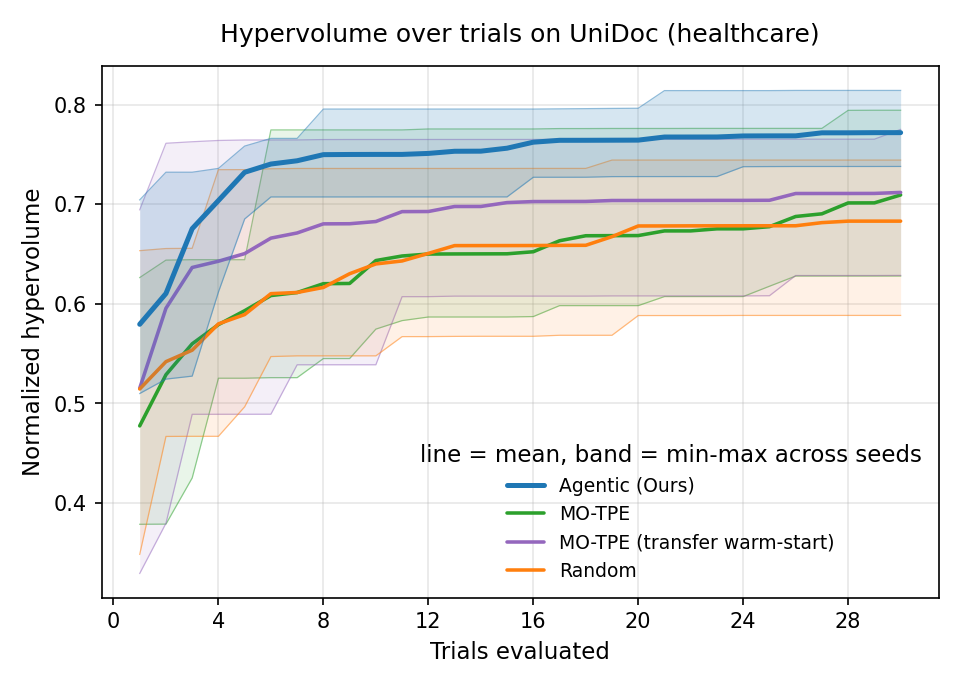
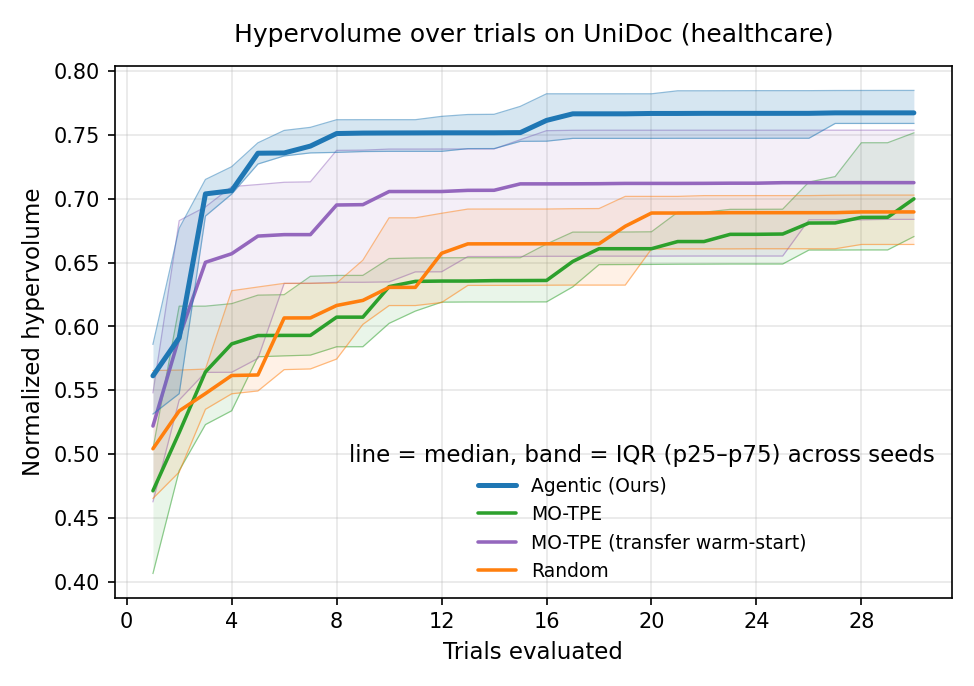
Update experiment 2 figures

diff --git a/agentic_autorag_bench/plots.py b/agentic_autorag_bench/plots.py
@@ -1438,37 +1438,58 @@ def _attainment_stats(seed_points: list[list[_TrialPoint]], grid: np.ndarray) ->
     return curves.min(axis=0), np.median(curves, axis=0), curves.max(axis=0)
 
 
+def _attainment_quantiles(
+    seed_points: list[list[_TrialPoint]], grid: np.ndarray
+) -> tuple[np.ndarray, np.ndarray, np.ndarray]:
+    """``(p25, p50, p75)`` of the seeds' empirical attainment curves on ``grid``.
+
+    The interquartile band (p25-p75) is the fair seed-spread envelope: unlike the
+    min-max range it is stable as the seed count grows (it converges to the true
+    quartiles instead of widening with n) and it is not driven by a single lucky or
+    unlucky seed. ``p50`` is the median attainment (the same central line as
+    ``_attainment_stats``). Curves are 0-padded below a seed's cheapest trial, so in
+    the cheap region where fewer than a quarter of seeds have a trial ``p25`` is 0;
+    callers gate the band on ``p25 > 0`` so it stays a proper interval rather than
+    sagging onto the axis."""
+    curves = np.vstack([_attainment_curve(pts, grid) for pts in seed_points])
+    p25, p50, p75 = np.percentile(curves, [25, 50, 75], axis=0)
+    return p25, p50, p75
+
+
 def _plot_attainment(
     ax, method_seed_points: dict[str, list[list[_TrialPoint]]], grid: np.ndarray, *, central: str
 ) -> None:
-    """Draw each method's attainment on ``ax``: a central line + a min-max band.
+    """Draw each method's attainment on ``ax``: a central line + an IQR seed band.
 
     ``central`` picks the line: ``"max"`` is the best-across-seeds frontier (every
     frontier point is on the line), ``"median"`` is the typical seed. The line is
     drawn over its full positive extent, so it reaches the cheapest costs a seed
-    explored. The min-max band is drawn ONLY where every seed has coverage (its
-    worst seed has a trial that cheap), i.e. where a seed-spread estimate is
-    honest; in the partial-coverage cheap region the line stands alone rather than
-    a band collapsing to 0. Our own method is emphasised."""
+    explored. The band is the interquartile range (p25-p75) across seeds — a fair,
+    n-stable spread (unlike min-max, whose width only grows with more seeds and is
+    set by the single worst/best seed). It is drawn where ``p25 > 0`` (at least a
+    quarter of seeds have a trial that cheap), so it stays a proper interval; in the
+    thin cheapest tail where fewer seeds explored, the line stands alone rather than
+    a band sagging onto the axis. Our own method is emphasised."""
     for method in _order_methods(method_seed_points):
-        lo, med, hi = _attainment_stats(method_seed_points[method], grid)
-        line = hi if central == "max" else med
+        p25, p50, p75 = _attainment_quantiles(method_seed_points[method], grid)
+        # best-across-seeds frontier for the "max" figure, else the median (typical) seed
+        line = _attainment_stats(method_seed_points[method], grid)[2] if central == "max" else p50
         color, emph = _color_for(method), _is_our_method(method)
-        band = lo > 0  # every seed has a trial this cheap -> spread is meaningful
-        ax.fill_between(grid, lo * 100, hi * 100, where=band, color=color,
+        band = p25 > 0  # >=1/4 of seeds have a trial this cheap -> IQR is a proper interval
+        ax.fill_between(grid, p25 * 100, p75 * 100, where=band, color=color,
                         alpha=0.18 if emph else 0.10, lw=0, zorder=4 if emph else 2)
         ax.plot(grid, np.where(line > 0, line * 100, np.nan), color=color, lw=2.4 if emph else 1.7,
                 solid_capstyle="round", zorder=6 if emph else 3, label=display_label(method))
 
 
 def make_pareto_attainment_figure(output_root: Path, out_path: Path, *, domain: str = "") -> None:
-    """Cost->accuracy frontier across seeds: best-across-seeds line + min-max band.
+    """Cost->accuracy frontier across seeds: best-across-seeds line + IQR band.
 
     The line is the empirical attainment frontier (best accuracy any seed reached at
     or below each cost), so every frontier point is shown, including cheap configs
-    only some seeds explored. The band is the seed min-max, drawn where all seeds
-    have coverage. Companion ``make_pareto_attainment_median_figure`` swaps the line
-    for the median (typical run). No-op when nothing is plottable."""
+    only some seeds explored. The band is the seed interquartile range (p25-p75) — a
+    fair, n-stable spread. Companion ``make_pareto_attainment_median_figure`` swaps
+    the line for the median (typical run). No-op when nothing is plottable."""
     method_seed_points = _load_method_seed_points(output_root)
     grid = _attainment_grid(method_seed_points)
     if grid is None:
@@ -1488,7 +1509,7 @@ def make_pareto_attainment_figure(output_root: Path, out_path: Path, *, domain: 
     title_domain = f" ({domain})" if domain else ""
     ax.set_title(f"Cost vs exam accuracy on UniDoc{title_domain} (frontier across seeds)")
     ax.legend(loc="lower right", frameon=False, fontsize=9,
-              title="line = best across seeds, band = min-max across seeds")
+              title="line = best across seeds, band = IQR (p25–p75) across seeds")
 
     out_path.parent.mkdir(parents=True, exist_ok=True)
     fig.savefig(out_path, dpi=150, bbox_inches="tight")
@@ -1497,9 +1518,9 @@ def make_pareto_attainment_figure(output_root: Path, out_path: Path, *, domain: 
 
 def _draw_median_attainment_panel(
     ax, method_seed_points, grid, *, domain: str,
-    legend_title: str | None = "line = median seed, band = min-max across seeds",
+    legend_title: str | None = "line = median seed, band = IQR (p25–p75) across seeds",
 ) -> None:
-    """Median-seed cost->accuracy attainment (line + min-max band) onto ``ax``.
+    """Median-seed cost->accuracy attainment (line + IQR seed band) onto ``ax``.
     Shared by the standalone median figure and the combined landscape figure so
     the two never drift. ``legend_title`` can be set to ``None`` to drop the
     line/band explainer when the figure caption already carries it."""
@@ -1553,7 +1574,8 @@ def make_pareto_attainment_median_figure(output_root: Path, out_path: Path, *, d
 def _pooled_frontier(seed_points: list[list[_TrialPoint]]) -> list[_TrialPoint]:
     """The Pareto frontier of a method's trials pooled across all seeds, sorted by
     cost ascending. This is the best cost-accuracy trade-off the method actually
-    reached anywhere, so it traces the top edge of that method's min-max band."""
+    reached anywhere, so it coincides with that method's best-across-seeds
+    attainment line (the ``central="max"`` line), which sits above the IQR band."""
     from agentic_autorag.optimizer import pareto as fpareto
 
     pooled = [p for pts in seed_points for p in pts]
@@ -1597,8 +1619,8 @@ def make_pareto_frontier_annotated_figure(
     """The seed-aggregated frontier view (``make_pareto_attainment_figure``) with our
     own frontier's concrete configurations called out.
 
-    Every method keeps its best-across-seeds frontier line + min-max band, so the
-    head-to-head is the same fair comparison. The pooled Pareto frontier of
+    Every method keeps its best-across-seeds frontier line + IQR (p25-p75) band, so
+    the head-to-head is the same fair comparison. The pooled Pareto frontier of
     ``hero_method`` lies exactly on that method's line, so a handful of its points
     are marked with numbered dots, each described in a side legend the way
     ``make_pareto_figure`` does for a single seed. This pairs "we dominate the
@@ -1628,7 +1650,7 @@ def make_pareto_frontier_annotated_figure(
     # Keep the method legend inside; the config legend goes outside on the right.
     method_legend = ax.legend(
         loc="lower right", frameon=False, fontsize=9,
-        title="line = best across seeds, band = min-max across seeds",
+        title="line = best across seeds, band = IQR (p25–p75) across seeds",
     )
     ax.add_artist(method_legend)
 
@@ -1667,20 +1689,22 @@ def _running_hypervolume(points: list[_TrialPoint], ref_point: tuple[float, floa
 
 
 def _draw_hv_convergence_panel(ax, method_seed_points, *, domain: str, cost_ref: float) -> None:
-    """Anytime normalized hypervolume vs. trials (mean + min-max band) onto ``ax``.
-    Shared by the standalone HV figure and the combined landscape figure."""
+    """Anytime normalized hypervolume vs. trials (median + IQR band) onto ``ax``.
+    Shared by the standalone HV figure and the combined landscape figure. The band
+    is the interquartile range (p25-p75) across seeds — a fair, n-stable spread
+    rather than the min-max range, which only widens with more seeds."""
     ref_point = (0.0, cost_ref)
     for method in _order_methods(method_seed_points):
         curves = _pad_edge([_running_hypervolume(pts, ref_point) / cost_ref for pts in method_seed_points[method]])
         x = np.arange(1, curves.shape[1] + 1)
         color, emph = _color_for(method), _is_our_method(method)
-        lo, hi = curves.min(axis=0), curves.max(axis=0)
+        lo, hi = np.percentile(curves, [25, 75], axis=0)
         ax.fill_between(x, lo, hi, color=color, alpha=0.18 if emph else 0.10, lw=0, zorder=4 if emph else 2)
         # Very thin same-colour edges so each band's extent stays readable where
         # the fills overlap (this figure has the densest band overlap of the set).
         for edge in (lo, hi):
             ax.plot(x, edge, color=color, lw=0.6, alpha=0.5, zorder=4 if emph else 2)
-        ax.plot(x, curves.mean(axis=0), color=color, lw=2.4 if emph else 1.7, solid_capstyle="round",
+        ax.plot(x, np.median(curves, axis=0), color=color, lw=2.4 if emph else 1.7, solid_capstyle="round",
                 zorder=6 if emph else 3, label=display_label(method))
 
     _integer_xticks(ax)
@@ -1689,11 +1713,11 @@ def _draw_hv_convergence_panel(ax, method_seed_points, *, domain: str, cost_ref:
     ax.grid(alpha=0.3)
     title_domain = f" ({domain})" if domain else ""
     ax.set_title(f"Hypervolume over trials on UniDoc{title_domain}")
-    ax.legend(loc="lower right", frameon=False, title="line = mean, band = min-max across seeds")
+    ax.legend(loc="lower right", frameon=False, title="line = median, band = IQR (p25–p75) across seeds")
 
 
 def make_pareto_hv_convergence_figure(output_root: Path, out_path: Path, *, domain: str = "", cost_ref: float) -> None:
-    """Anytime normalized hypervolume vs. trials: mean over seeds + min-max band.
+    """Anytime normalized hypervolume vs. trials: median over seeds + IQR band.
 
     Running best-so-far hypervolume against the shared, space-derived ``cost_ref``
     (the same reference used for ``hypervolume.json``, so this figure and the table
@@ -1755,6 +1779,70 @@ def make_pareto_median_hv_combined_figure(
         out_path.parent.mkdir(parents=True, exist_ok=True)
         fig.savefig(out_path, dpi=150, bbox_inches="tight")
         plt.close(fig)
+
+
+def make_pareto_hypervolume_box_figure(output_root: Path, out_path: Path, *, domain: str = "") -> None:
+    """Per-method distribution of the per-seed normalized hypervolume: box + seed strip.
+
+    Reads the ``hypervolume_per_seed`` fractions already written to
+    ``hypervolume.json`` (one dominated-hypervolume value per seed against the shared
+    space-derived reference) and shows, per method, the interquartile box + median
+    with whiskers and every seed as a jittered dot. This is the fair scalar summary
+    the frontier figures can't give: it collapses each seed's whole frontier to one
+    comparable number, so the seed spread and the method ranking read directly and it
+    supports a significance test. No-op when the file is missing or has no per-seed
+    values."""
+    hv_path = output_root / "hypervolume.json"
+    if not hv_path.exists():
+        logger.warning("No hypervolume.json under %s; skipping hypervolume box figure", output_root)
+        return
+    try:
+        hv_info = json.loads(hv_path.read_text(encoding="utf-8"))
+    except (OSError, json.JSONDecodeError):
+        logger.warning("Unreadable hypervolume.json at %s; skipping box figure", hv_path, exc_info=True)
+        return
+    methods_hv = hv_info.get("methods", {})
+    methods = [m for m in _order_methods(methods_hv) if methods_hv.get(m, {}).get("hypervolume_per_seed")]
+    if not methods:
+        logger.warning("hypervolume.json under %s has no per-seed values; skipping box figure", output_root)
+        return
+
+    apply_paper_style()
+    plt = _import_matplotlib()
+    fig, ax = plt.subplots(figsize=(7.2, 4.6))
+    rng = np.random.default_rng(0)  # deterministic jitter -> stable re-renders
+    positions = np.arange(1, len(methods) + 1)
+    per_seed = [list(methods_hv[m]["hypervolume_per_seed"]) for m in methods]
+
+    bp = ax.boxplot(per_seed, positions=positions, widths=0.55, showfliers=False,
+                    patch_artist=True, medianprops=dict(color="black", lw=1.6), zorder=2)
+    for patch, method in zip(bp["boxes"], methods, strict=True):
+        color = _color_for(method)
+        patch.set_facecolor(color)
+        patch.set_alpha(0.18)
+        patch.set_edgecolor(color)
+        patch.set_linewidth(1.4)
+    for i, method in enumerate(methods):  # whiskers + caps come two-per-box, in order
+        color = _color_for(method)
+        for artist in (bp["whiskers"][2 * i], bp["whiskers"][2 * i + 1], bp["caps"][2 * i], bp["caps"][2 * i + 1]):
+            artist.set_color(color)
+            artist.set_linewidth(1.2)
+    for method, pos, vals in zip(methods, positions, per_seed, strict=True):
+        color, emph = _color_for(method), _is_our_method(method)
+        jitter = (rng.random(len(vals)) - 0.5) * 0.28
+        ax.scatter(pos + jitter, vals, s=34 if emph else 22, color=color,
+                   edgecolor="white", linewidth=0.5, alpha=0.9, zorder=5 if emph else 4)
+
+    ax.set_xticks(positions)
+    ax.set_xticklabels([display_label(m) for m in methods])
+    ax.set_ylabel("Normalized hypervolume")
+    ax.grid(alpha=0.3, axis="y")
+    title_domain = f" ({domain})" if domain else ""
+    ax.set_title(f"Per-seed hypervolume on UniDoc{title_domain}")
+
+    out_path.parent.mkdir(parents=True, exist_ok=True)
+    fig.savefig(out_path, dpi=150, bbox_inches="tight")
+    plt.close(fig)
 
 
 def _read_seed_cost_embed(seed_dir: Path) -> tuple[float, float, float] | None:

diff --git a/tests/test_pareto.py b/tests/test_pareto.py
@@ -19,6 +19,7 @@ from agentic_autorag_bench.pareto import (
 )
 from agentic_autorag_bench.plots import (
     _attainment_curve,
+    _attainment_quantiles,
     _attainment_stats,
     _describe_config,
     _load_method_seed_points,
@@ -35,6 +36,7 @@ from agentic_autorag_bench.plots import (
     make_pareto_figure,
     make_pareto_frontier_annotated_figure,
     make_pareto_hv_convergence_figure,
+    make_pareto_hypervolume_box_figure,
     make_pareto_median_hv_combined_figure,
 )
 
@@ -399,6 +401,25 @@ def test_attainment_stats_frontier_shows_single_seed_cheap_point() -> None:
     assert hi[0] == 0.5 and lo[0] == 0.0  # frontier reaches the cheap point; floor does not
 
 
+def test_attainment_quantiles_monotone_and_zero_padded() -> None:
+    # The IQR band's quartiles: p25 <= p50 <= p75 everywhere, 0-padded below the
+    # cheapest trial (like the attainment curve), and a positive interval once every
+    # seed has coverage.
+    import numpy as np
+
+    seeds = [
+        [_point(1, 0.001, 0.5), _point(2, 0.004, 0.9)],
+        [_point(1, 0.002, 0.6), _point(2, 0.004, 0.8)],
+        [_point(1, 0.002, 0.7), _point(2, 0.004, 0.85)],
+        [_point(1, 0.004, 0.8)],  # nothing under 0.004
+    ]
+    grid = np.array([0.0005, 0.001, 0.002, 0.004])
+    p25, p50, p75 = _attainment_quantiles(seeds, grid)
+    assert p25[0] == 0.0 and p50[0] == 0.0 and p75[0] == 0.0  # below every seed's cheapest
+    assert np.all(p25 <= p50) and np.all(p50 <= p75)  # proper interquartile envelope
+    assert p25[-1] > 0.0  # every seed covers the dearest cost -> band is a positive interval
+
+
 def test_make_pareto_attainment_figure_emits_png(tmp_path) -> None:
     _write_run_tree(tmp_path)
     out = tmp_path / "figures" / "pareto_attainment.png"
@@ -431,6 +452,39 @@ def test_make_pareto_median_hv_combined_figure_no_points_is_noop(tmp_path) -> No
     (tmp_path / "agentic_cost" / "seed_1").mkdir(parents=True)  # empty: no history
     out = tmp_path / "figures" / "pareto_median_and_hypervolume.png"
     make_pareto_median_hv_combined_figure(tmp_path, out, cost_ref=0.006)
+    assert not out.exists()
+
+
+def _write_hv_json(root: Path, per_seed: dict[str, list[float]]) -> None:
+    methods = {
+        m: {
+            "hypervolume_per_seed": v,
+            "hypervolume_mean": sum(v) / len(v),
+            "hypervolume_min": min(v),
+            "hypervolume_max": max(v),
+            "n_seeds": len(v),
+        }
+        for m, v in per_seed.items()
+    }
+    (root / "hypervolume.json").write_text(
+        json.dumps({"score_reference": 0.0, "cost_reference": 0.046, "methods": methods}),
+        encoding="utf-8",
+    )
+
+
+def test_make_pareto_hypervolume_box_figure_emits_png(tmp_path) -> None:
+    _write_hv_json(tmp_path, {
+        "agentic_cost": [0.70, 0.75, 0.80, 0.78],
+        "random": [0.60, 0.62, 0.65, 0.58],
+    })
+    out = tmp_path / "figures" / "pareto_hypervolume_box.png"
+    make_pareto_hypervolume_box_figure(tmp_path, out, domain="healthcare")
+    assert out.exists() and out.stat().st_size > 0
+
+
+def test_make_pareto_hypervolume_box_figure_no_json_is_noop(tmp_path) -> None:
+    out = tmp_path / "figures" / "pareto_hypervolume_box.png"
+    make_pareto_hypervolume_box_figure(tmp_path, out)  # no hypervolume.json present
     assert not out.exists()
 
 

diff --git a/agentic_autorag_bench/pareto.py b/agentic_autorag_bench/pareto.py
@@ -41,6 +41,7 @@ from agentic_autorag_bench.plots import (
     make_pareto_figure,
     make_pareto_frontier_annotated_figure,
     make_pareto_hv_convergence_figure,
+    make_pareto_hypervolume_box_figure,
     make_pareto_median_hv_combined_figure,
 )
 
@@ -494,6 +495,12 @@ async def run_pareto(
         )
     except Exception:
         logger.warning("hypervolume figure failed", exc_info=True)
+    try:
+        make_pareto_hypervolume_box_figure(
+            cfg.output_root, figures_dir / "pareto_hypervolume_box.png", domain=cfg.corpus_domain
+        )
+    except Exception:
+        logger.warning("hypervolume box figure failed", exc_info=True)
     try:
         make_pareto_median_hv_combined_figure(
             cfg.output_root, figures_dir / "pareto_median_and_hypervolume.png",

diff --git a/README.md b/README.md
@@ -124,17 +124,20 @@ uv run agentic-autorag-bench pareto -c configs/unidoc_pareto.yaml --figure-only
 ```
 
 This rewrites the figures in `experiment-2/unidoc/figures/` and `hypervolume.json`.
-The two used in the paper are `pareto_cost_accuracy.png` (each method's
-cost-accuracy frontier, best across seeds, with a min-max band where all seeds
-cover) and `pareto_frontier_configs.png` (the same view with our frontier's actual
-configurations labelled). The rest are supporting views:
-`pareto_cost_accuracy_median.png` (the same frontier view but the line is the
-median seed rather than the best, a typical-run rather than best-case reading),
+The frontier figure used in the paper is `pareto_cost_accuracy_median.png` (each
+method's cost-accuracy attainment, median-seed line with an IQR (p25–p75) seed
+band — a typical-run reading), with `pareto_frontier_configs.png` labelling our
+frontier's actual configurations. The rest are supporting views:
+`pareto_cost_accuracy.png` (the same attainment view but the line is the best
+across seeds — the achievable ceiling — with the same IQR band),
+`pareto_hypervolume_box.png` (per-method box + seed-strip of the per-seed
+hypervolume — the fair scalar summary of the ranking and its seed spread),
 `cost_and_embeddings.png` (search cost and embedding tokens per method, with seed
 error bars), `pareto_agentic_cost.png` (a single agentic run's frontier),
 `pareto_comparison.png` (one seed per method), `pareto_hypervolume.png`
-(hypervolume over trials), and `pareto_median_and_hypervolume.png` (a wide
-landscape pairing the median frontier and the hypervolume curve side by side).
+(hypervolume over trials, median + IQR band), and
+`pareto_median_and_hypervolume.png` (a wide landscape pairing the median frontier
+and the hypervolume curve side by side).
 
 The committed run keeps the per-pair results, the figures, and the frozen
 `.shared_cache/exam.json` (the optimization target and score), dropping only the
